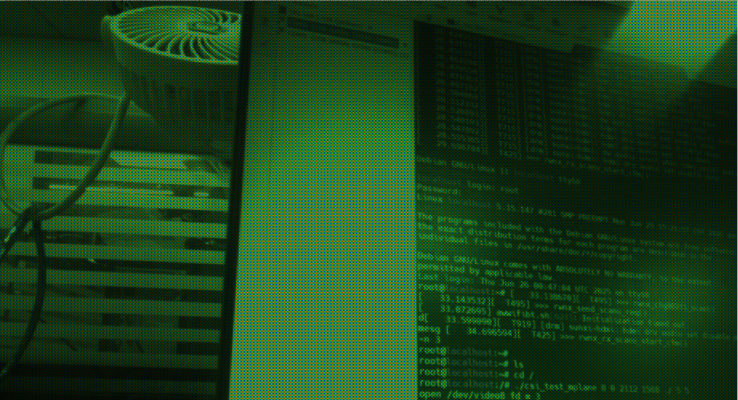
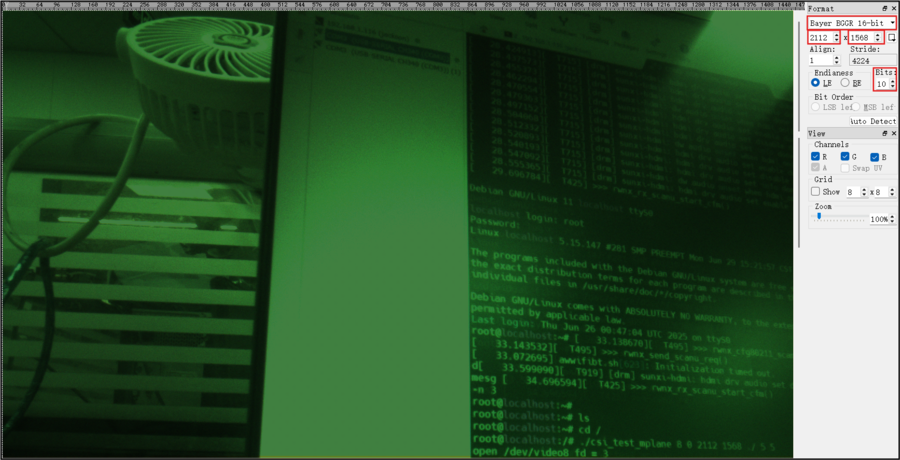
Add a diagram showing how to connect the sige6 camera

diff --git a/docs/main/ArmSoM Product/sige6.md b/docs/main/ArmSoM Product/sige6.md
@@ -1116,6 +1116,13 @@ root@localhost:~# hwclock -r -f /dev/rtc0  //Read the RTC clock
 
 ### 3.13 MIPI-CSI
 The MIPI-CSI interface supports 0v13850 [camera-module1](./armsom-camera-module1) and imx219 cameras
+- Connect the camera-module1 to the MIPI-CSI1 interface on the back of the development board, as shown in the picture:
+
+![armsom-sige6-mipi1](/img/lm/armsom-sige6-mipi1.jpg)
+
+- Connect the IMX219 camera to the MIPI-CSI0 interface on the front of the development board, as shown in the picture:
+
+![armsom-sige6-mipi0](/img/lm/armsom-sige6-mipi0.jpg)
 
 #### 3.13.1 Using the ArmSoM camera-module1
 
@@ -1139,7 +1146,7 @@ VIDIOC_STREAMOFF ok
 mode 5 test done at the 0 time!!
 time cost 0.339447(s)
 ```
-After executing the above command, you will see that some fb8y5_2112_1568*.bin files have been generated in the current directory. We can use 7yuv software to view the raw RAW images, as shown below:
+After executing the above command, you can see that some fb8_y5_2112_1568_*.bin files have been generated in the current directory. We can use the 7yuv software to view the RAW images and select the corresponding parameters as shown in the figure below:
 
 ![armsom-w3-imx415-camera](/img/lm/armsom-sige6-ov13850-camera.png)
 

diff --git a/i18n/zh/docusaurus-plugin-content-docs/current/main/ArmSoM Product/sige6.md b/i18n/zh/docusaurus-plugin-content-docs/current/main/ArmSoM Product/sige6.md
@@ -1277,6 +1277,13 @@ root@localhost:~# hwclock -r -f /dev/rtc0  //读取rtc时钟
 
 ### 3.13 MIPI-CSI
 MIPI-CSI接口分别支持0v13850摄像头[camera-module1](./armsom-camera-module1)和imx219摄像头
+- camera-module1摄像头接开发板背面的MIPI-CSI1接口，如图所示：
+
+![armsom-sige6-mipi1](/img/lm/armsom-sige6-mipi1.jpg)
+
+- imx219摄像头接开发板正面的MIPI-CSI0接口，如图所示：
+
+![armsom-sige6-mipi0](/img/lm/armsom-sige6-mipi0.jpg)
 
 #### 3.13.1 使用 ArmSoM camera-module1
 
@@ -1300,7 +1307,7 @@ VIDIOC_STREAMOFF ok
 mode 5 test done at the 0 time!!
 time cost 0.339447(s)
 ```
-执行完上述命令后，可以看到当前目录下生成了一些fb8_y5_2112_1568_*.bin文件，我们可以使用7yuv软件查看RAW原始图，如下：
+执行完上述命令后，可以看到当前目录下生成了一些fb8_y5_2112_1568_*.bin文件，我们可以使用7yuv软件查看RAW原始图，按下图所示选择相应参数：
 
 ![armsom-w3-imx415-camera](/img/lm/armsom-sige6-ov13850-camera.png)
 